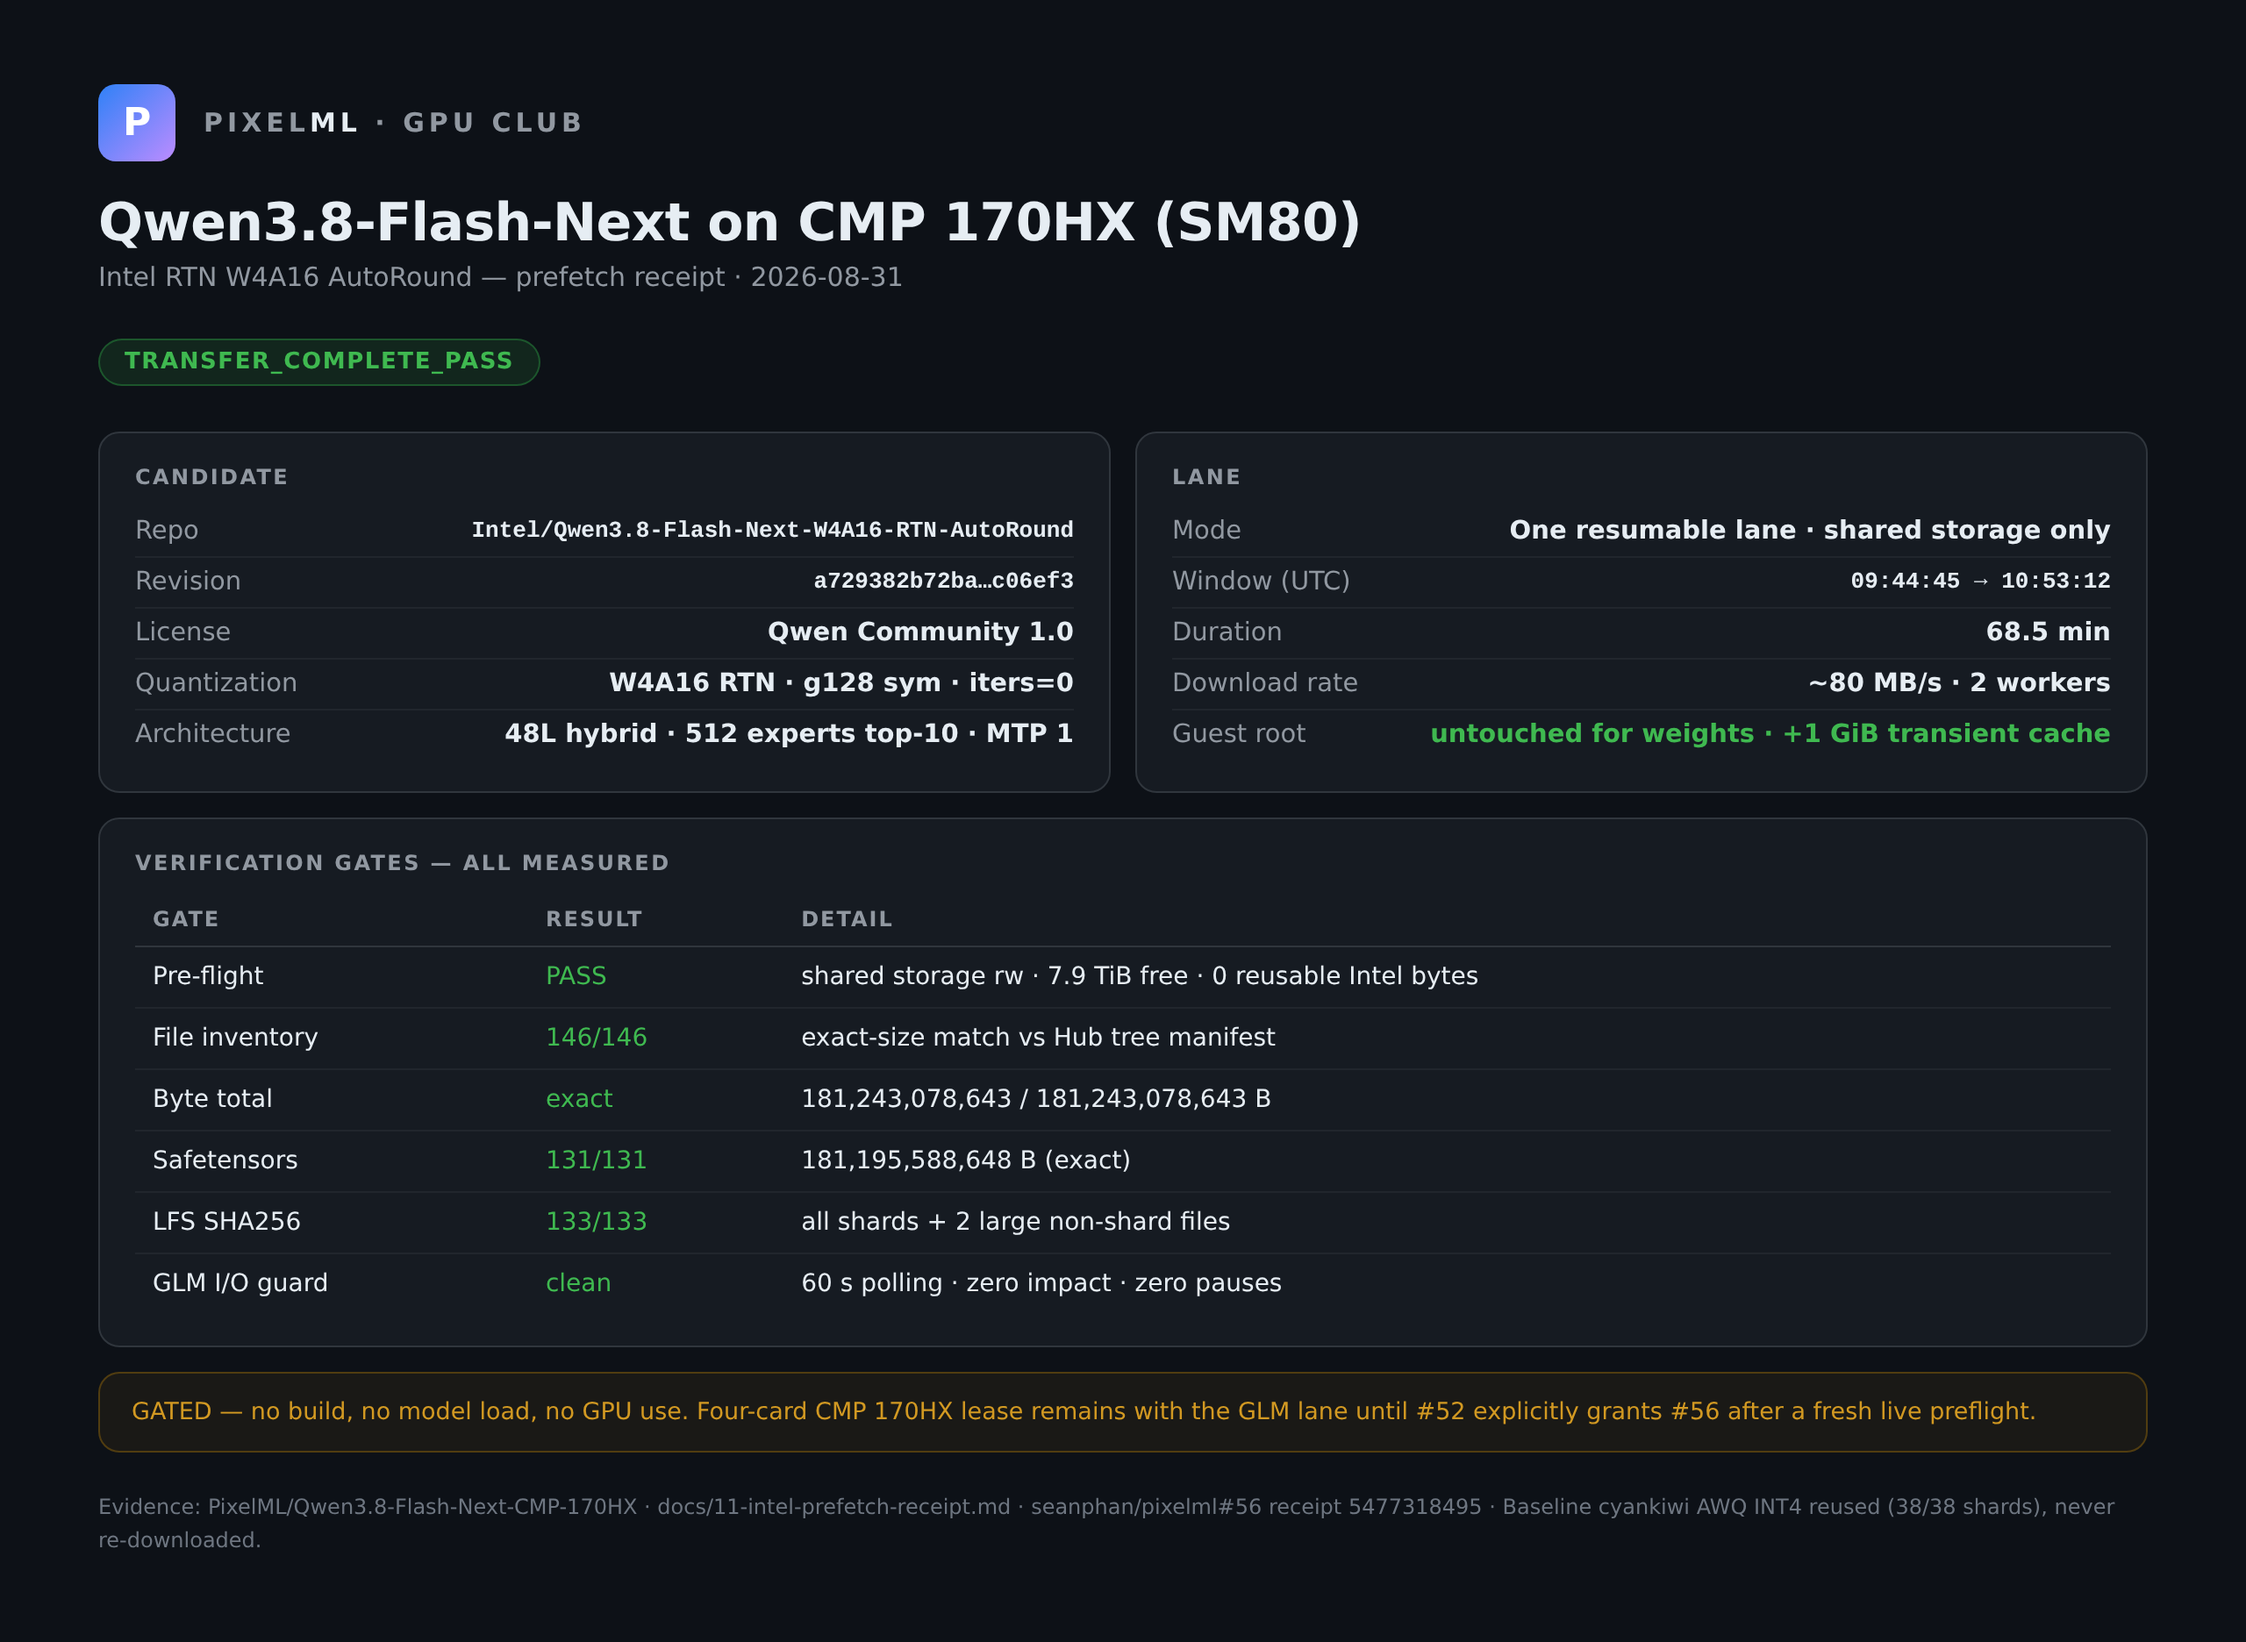
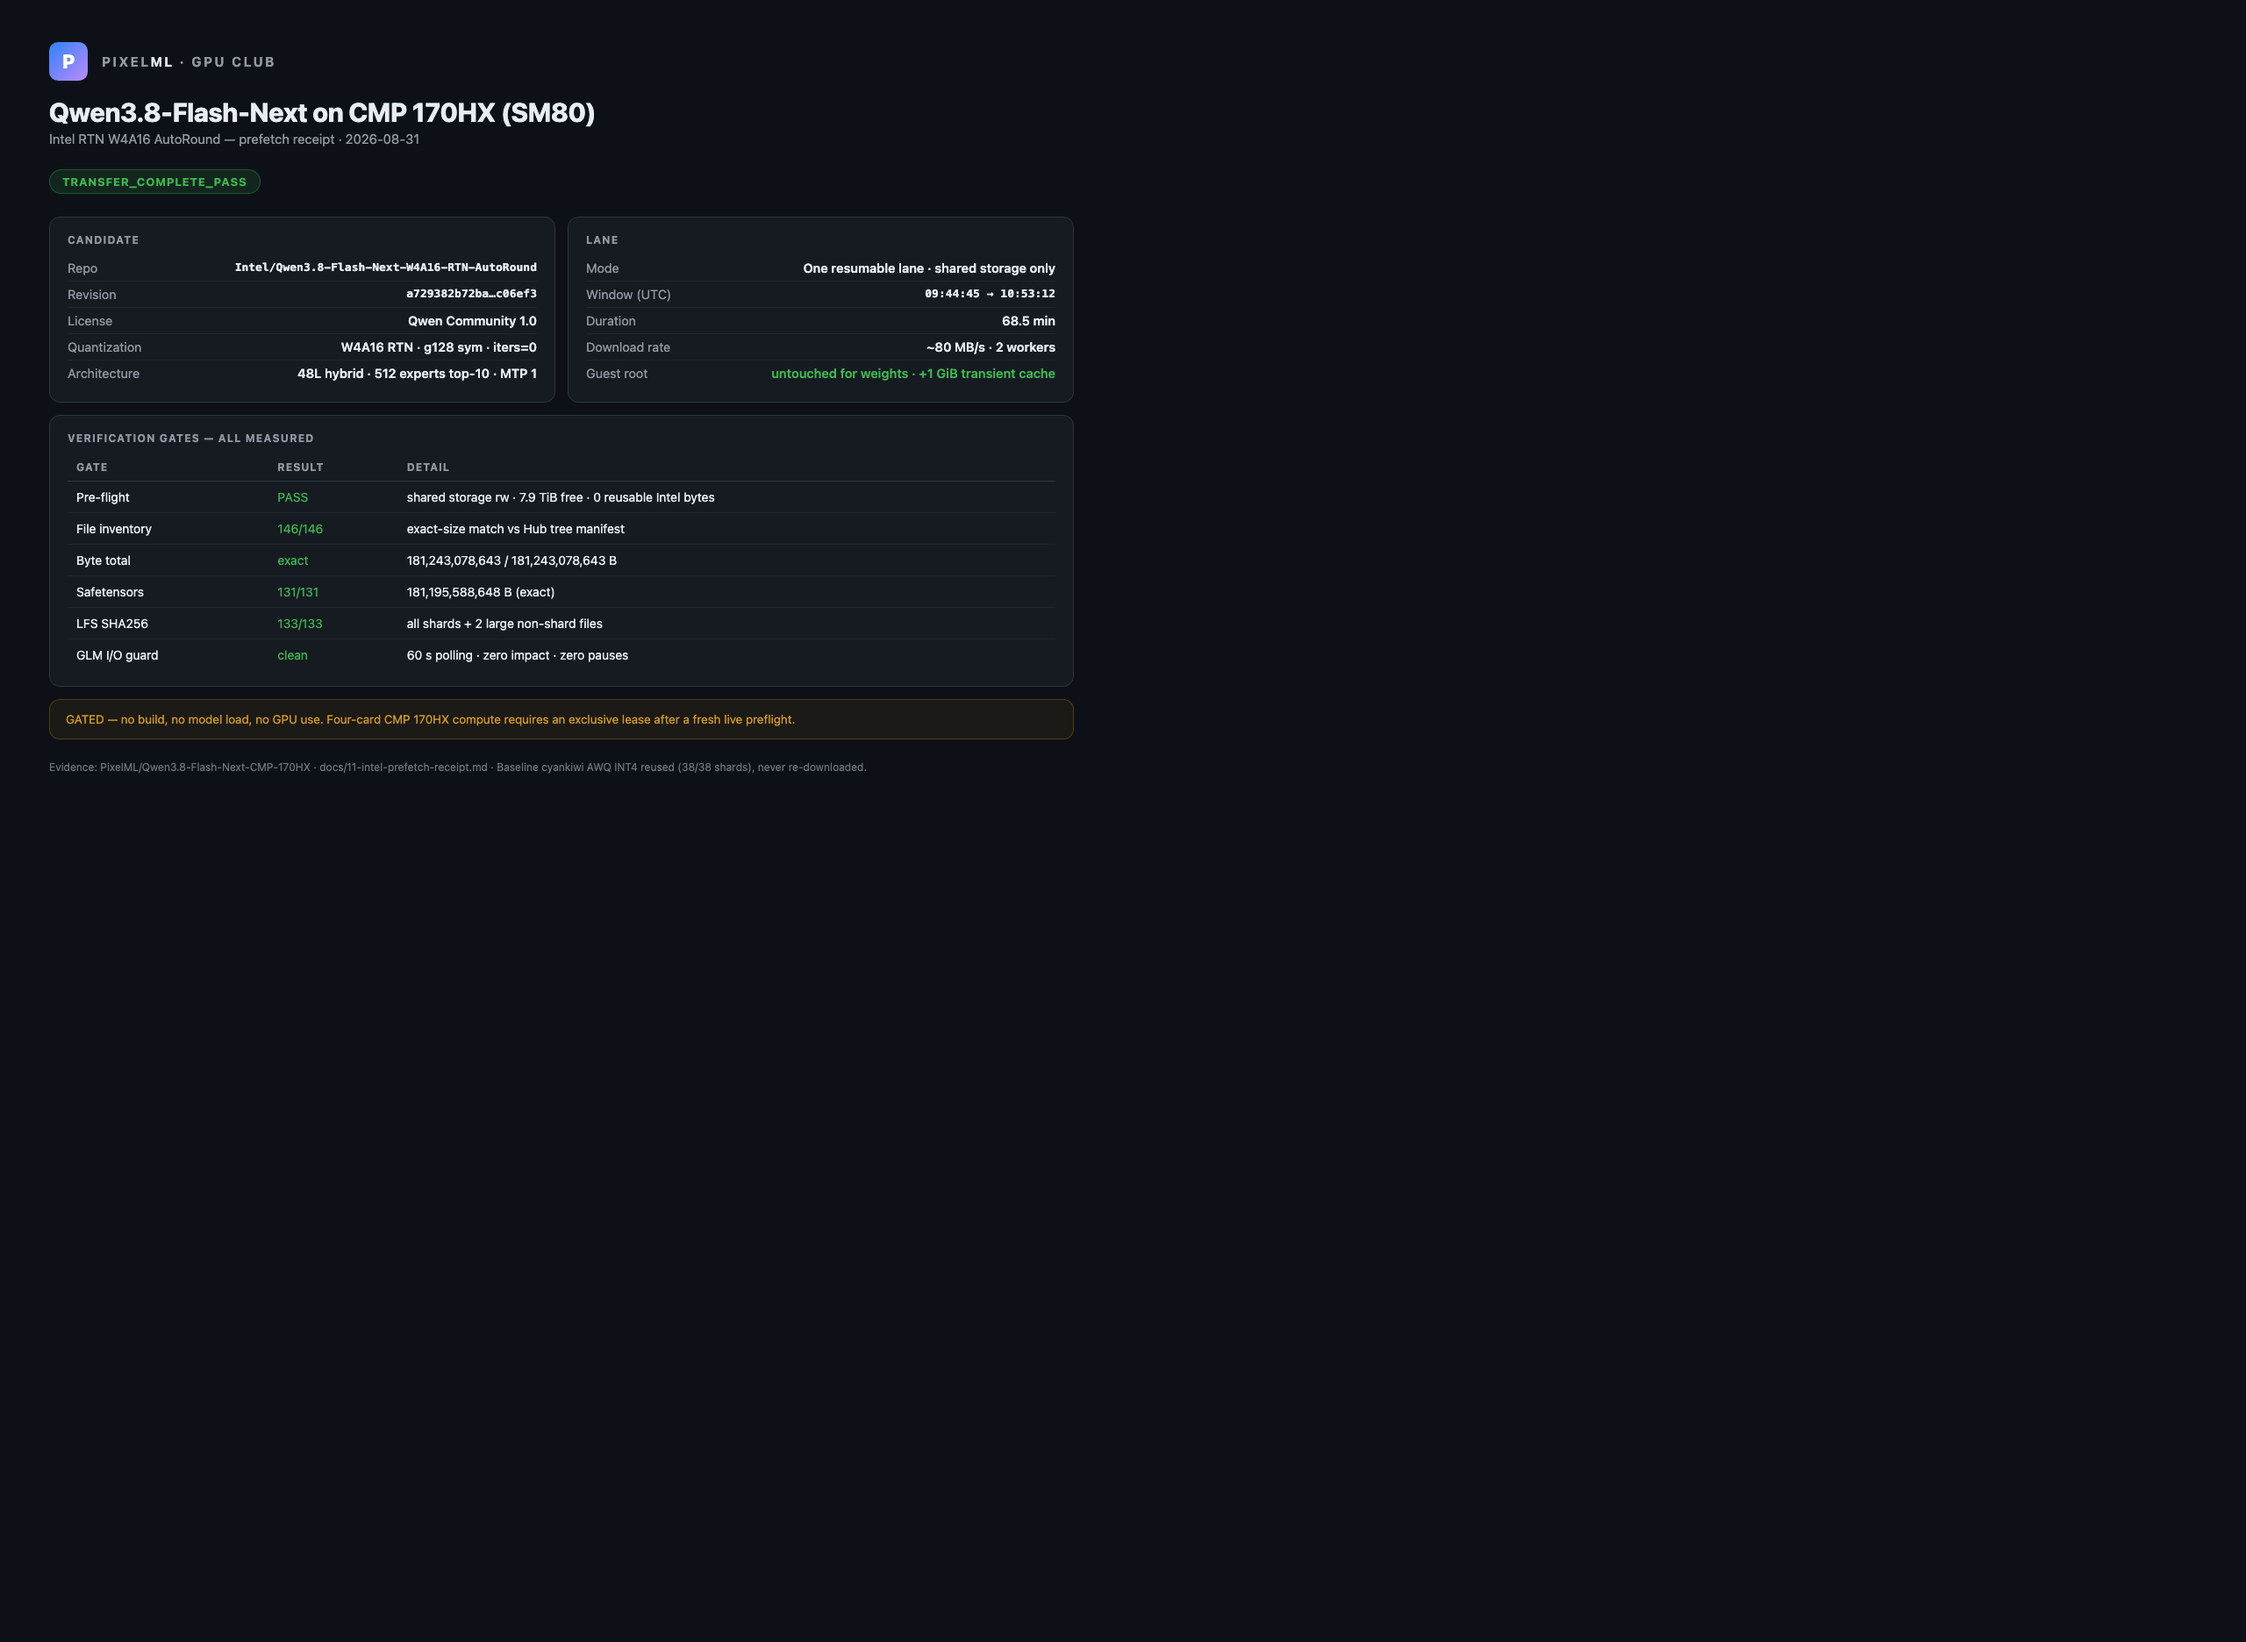
fix: scrub private receipt references

diff --git a/docs/assets/11-intel-prefetch-receipt.html b/docs/assets/11-intel-prefetch-receipt.html
@@ -81,7 +81,7 @@
       <tr><td>GLM I/O guard</td><td class="ok">clean</td><td>60 s polling · zero impact · zero pauses</td></tr>
     </table>
   </div>
-  <div class="gate">GATED — no build, no model load, no GPU use. Four-card CMP 170HX lease remains with the GLM lane until #52 explicitly grants #56 after a fresh live preflight.</div>
-  <div class="foot">Evidence: PixelML/Qwen3.8-Flash-Next-CMP-170HX · docs/11-intel-prefetch-receipt.md · seanphan/pixelml#56 receipt 5477318495 · Baseline cyankiwi AWQ INT4 reused (38/38 shards), never re-downloaded.</div>
+  <div class="gate">GATED — no build, no model load, no GPU use. Four-card CMP 170HX compute requires an exclusive lease after a fresh live preflight.</div>
+  <div class="foot">Evidence: PixelML/Qwen3.8-Flash-Next-CMP-170HX · docs/11-intel-prefetch-receipt.md · Baseline cyankiwi AWQ INT4 reused (38/38 shards), never re-downloaded.</div>
 </body>
 </html>

diff --git a/docs/11-intel-prefetch-receipt.md b/docs/11-intel-prefetch-receipt.md
@@ -1,8 +1,8 @@
 # 11 — Intel RTN W4A16 prefetch receipt (sanitized)
 
 Status: TRANSFER_COMPLETE_PASS. One resumable lane, shared storage only.
-No build, no model load, no GPU use. Compute remains gated on #52 granting
-#56 the four-card lane after a fresh live preflight.
+No build, no model load, no GPU use. Compute remains gated on an exclusive
+four-card lease after a fresh live preflight.
 
 ## Pinned transfer (2026-08-31)
 
@@ -10,9 +10,8 @@ No build, no model load, no GPU use. Compute remains gated on #52 granting
   @ `a729382b72baabf11a6c10f35e9042b98cc06ef3`
 - Destination: `/library/models/qwen38/Intel-Qwen3.8-Flash-Next-W4A16-RTN-AutoRound`
   (canonical shared model storage; guest root never used for weights)
-- Trigger: GLM lane integrity PASS + bounded boot start, recorded at
-  [seanphan/pixelml#52 comment 5476249910](https://github.com/seanphan/pixelml/issues/52#issuecomment-5476249910)
-  and [seanphan/pixelml#66 comment 5476249698](https://github.com/seanphan/pixelml/issues/66#issuecomment-5476249698)
+- Trigger: GLM lane integrity PASS + bounded boot start, recorded in internal
+  tracking.
 
 ## Verification gates (all measured)
 
